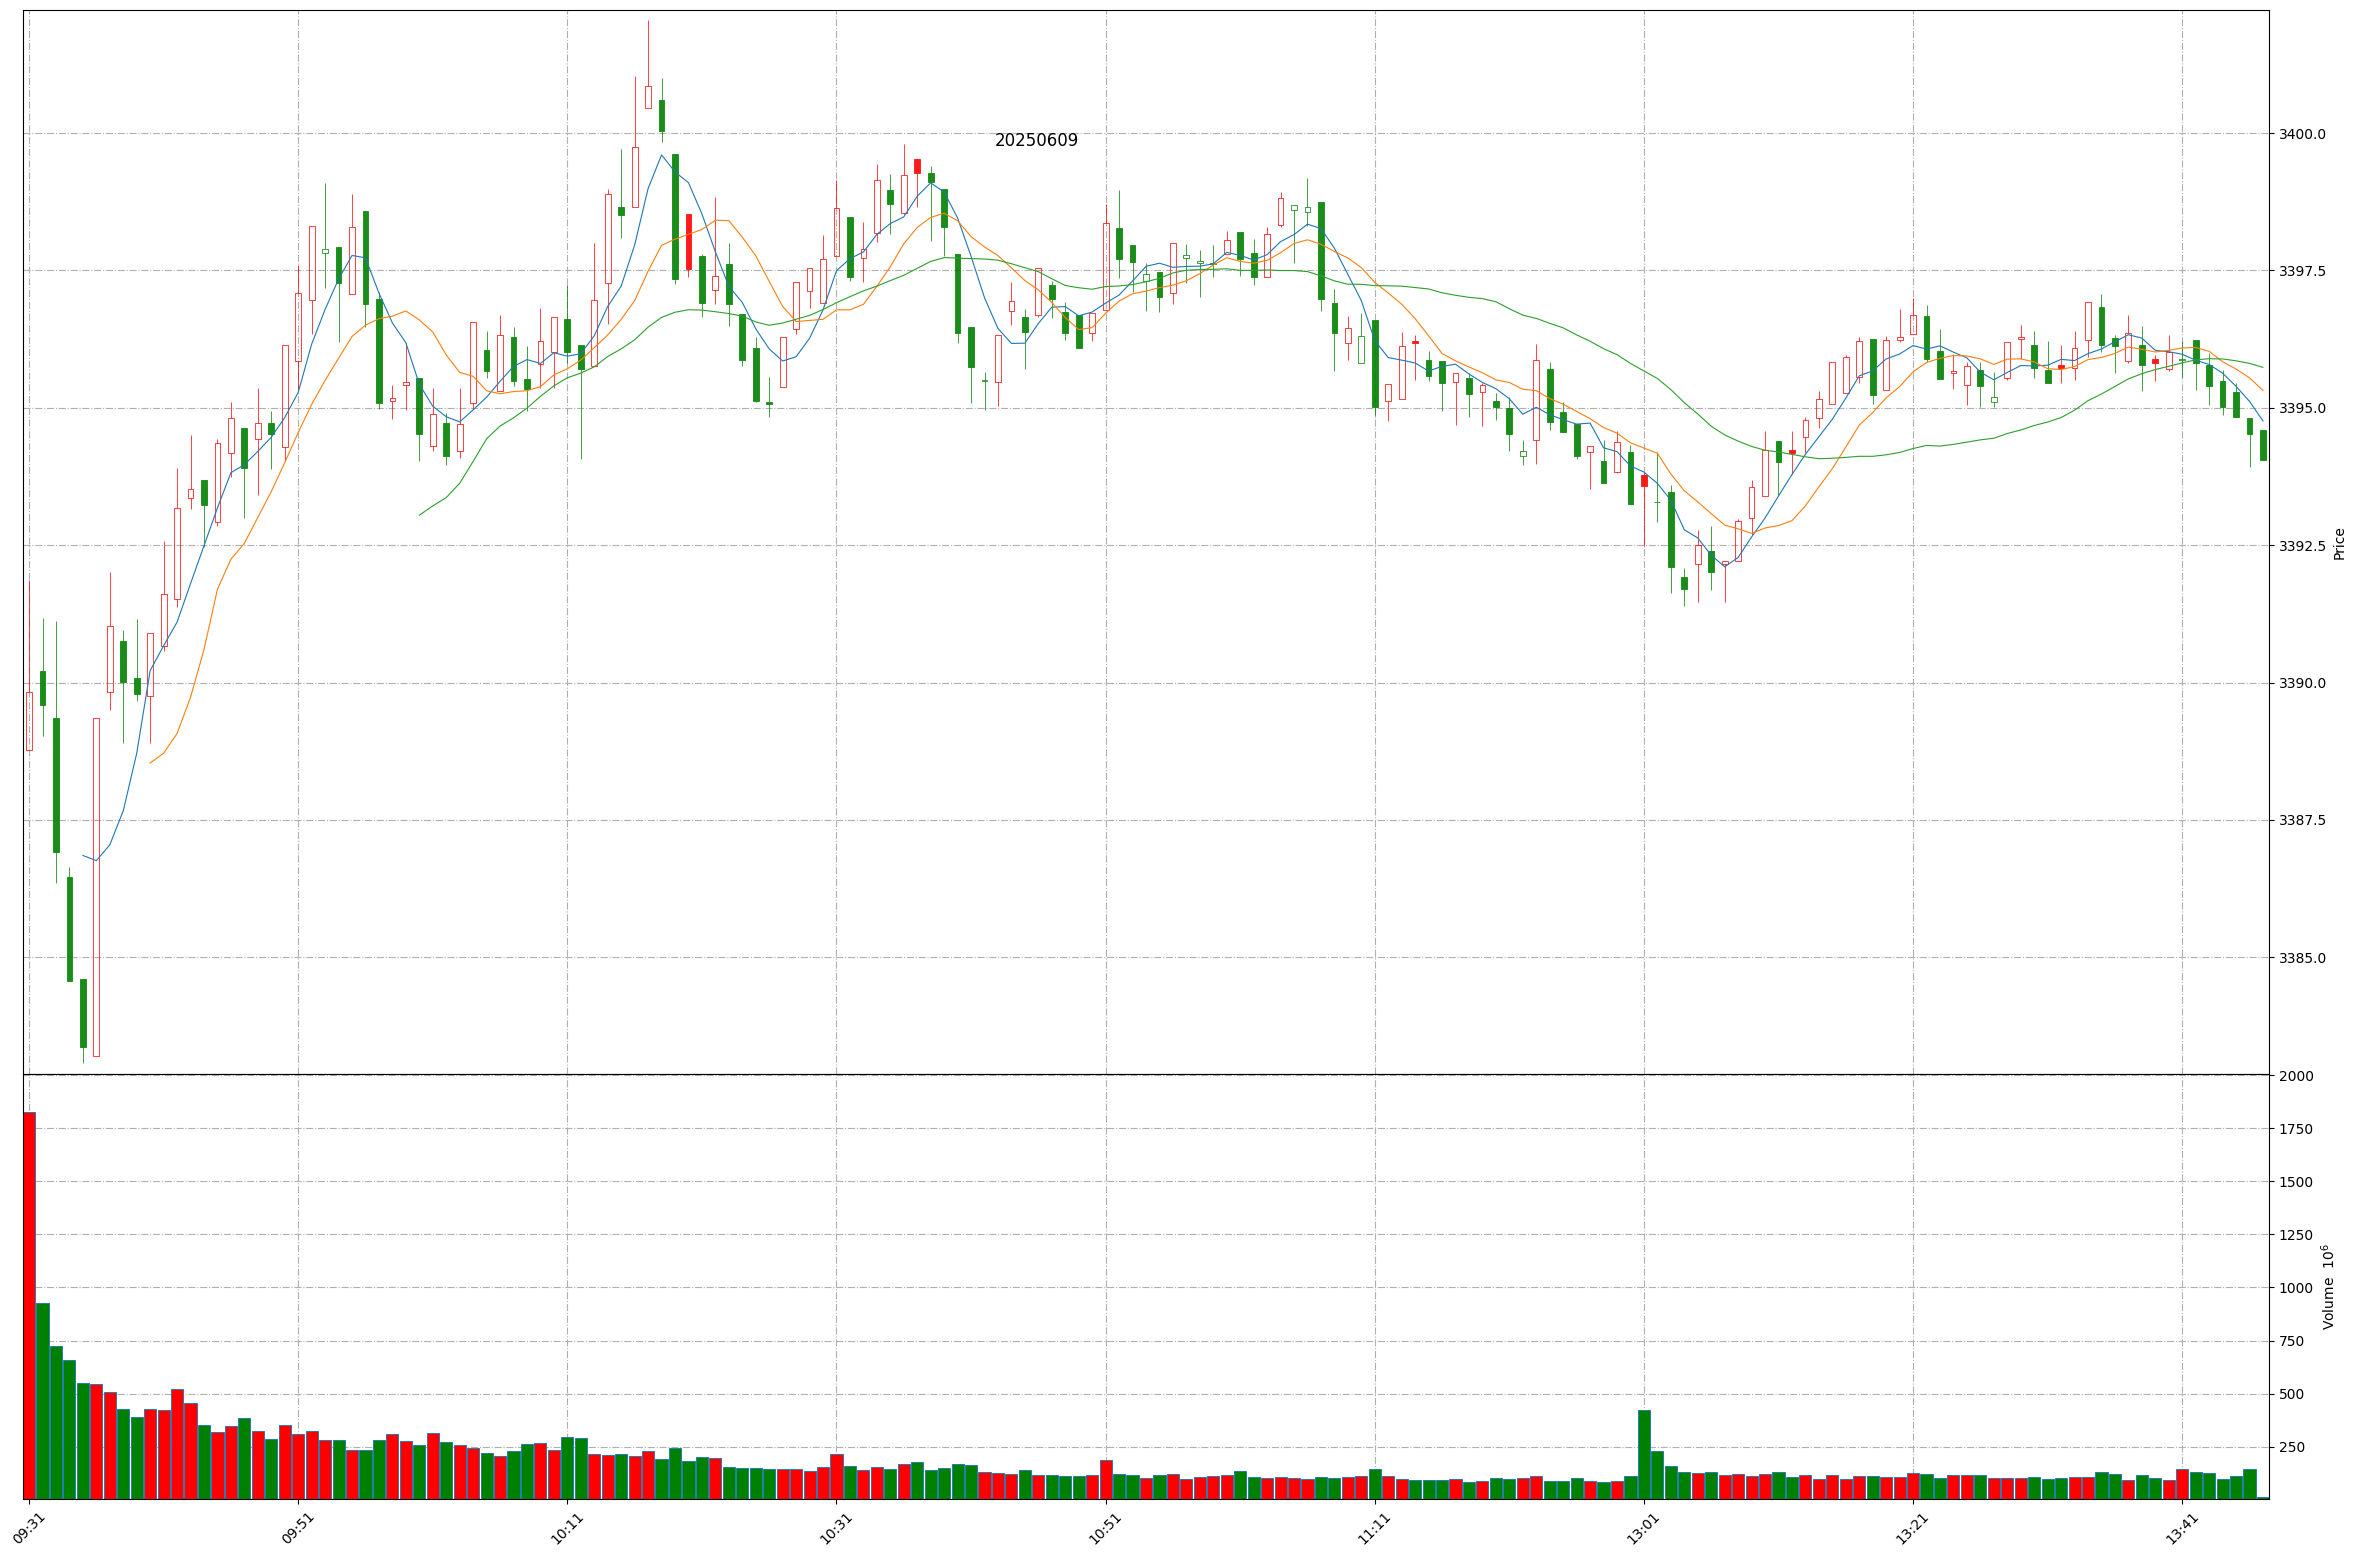
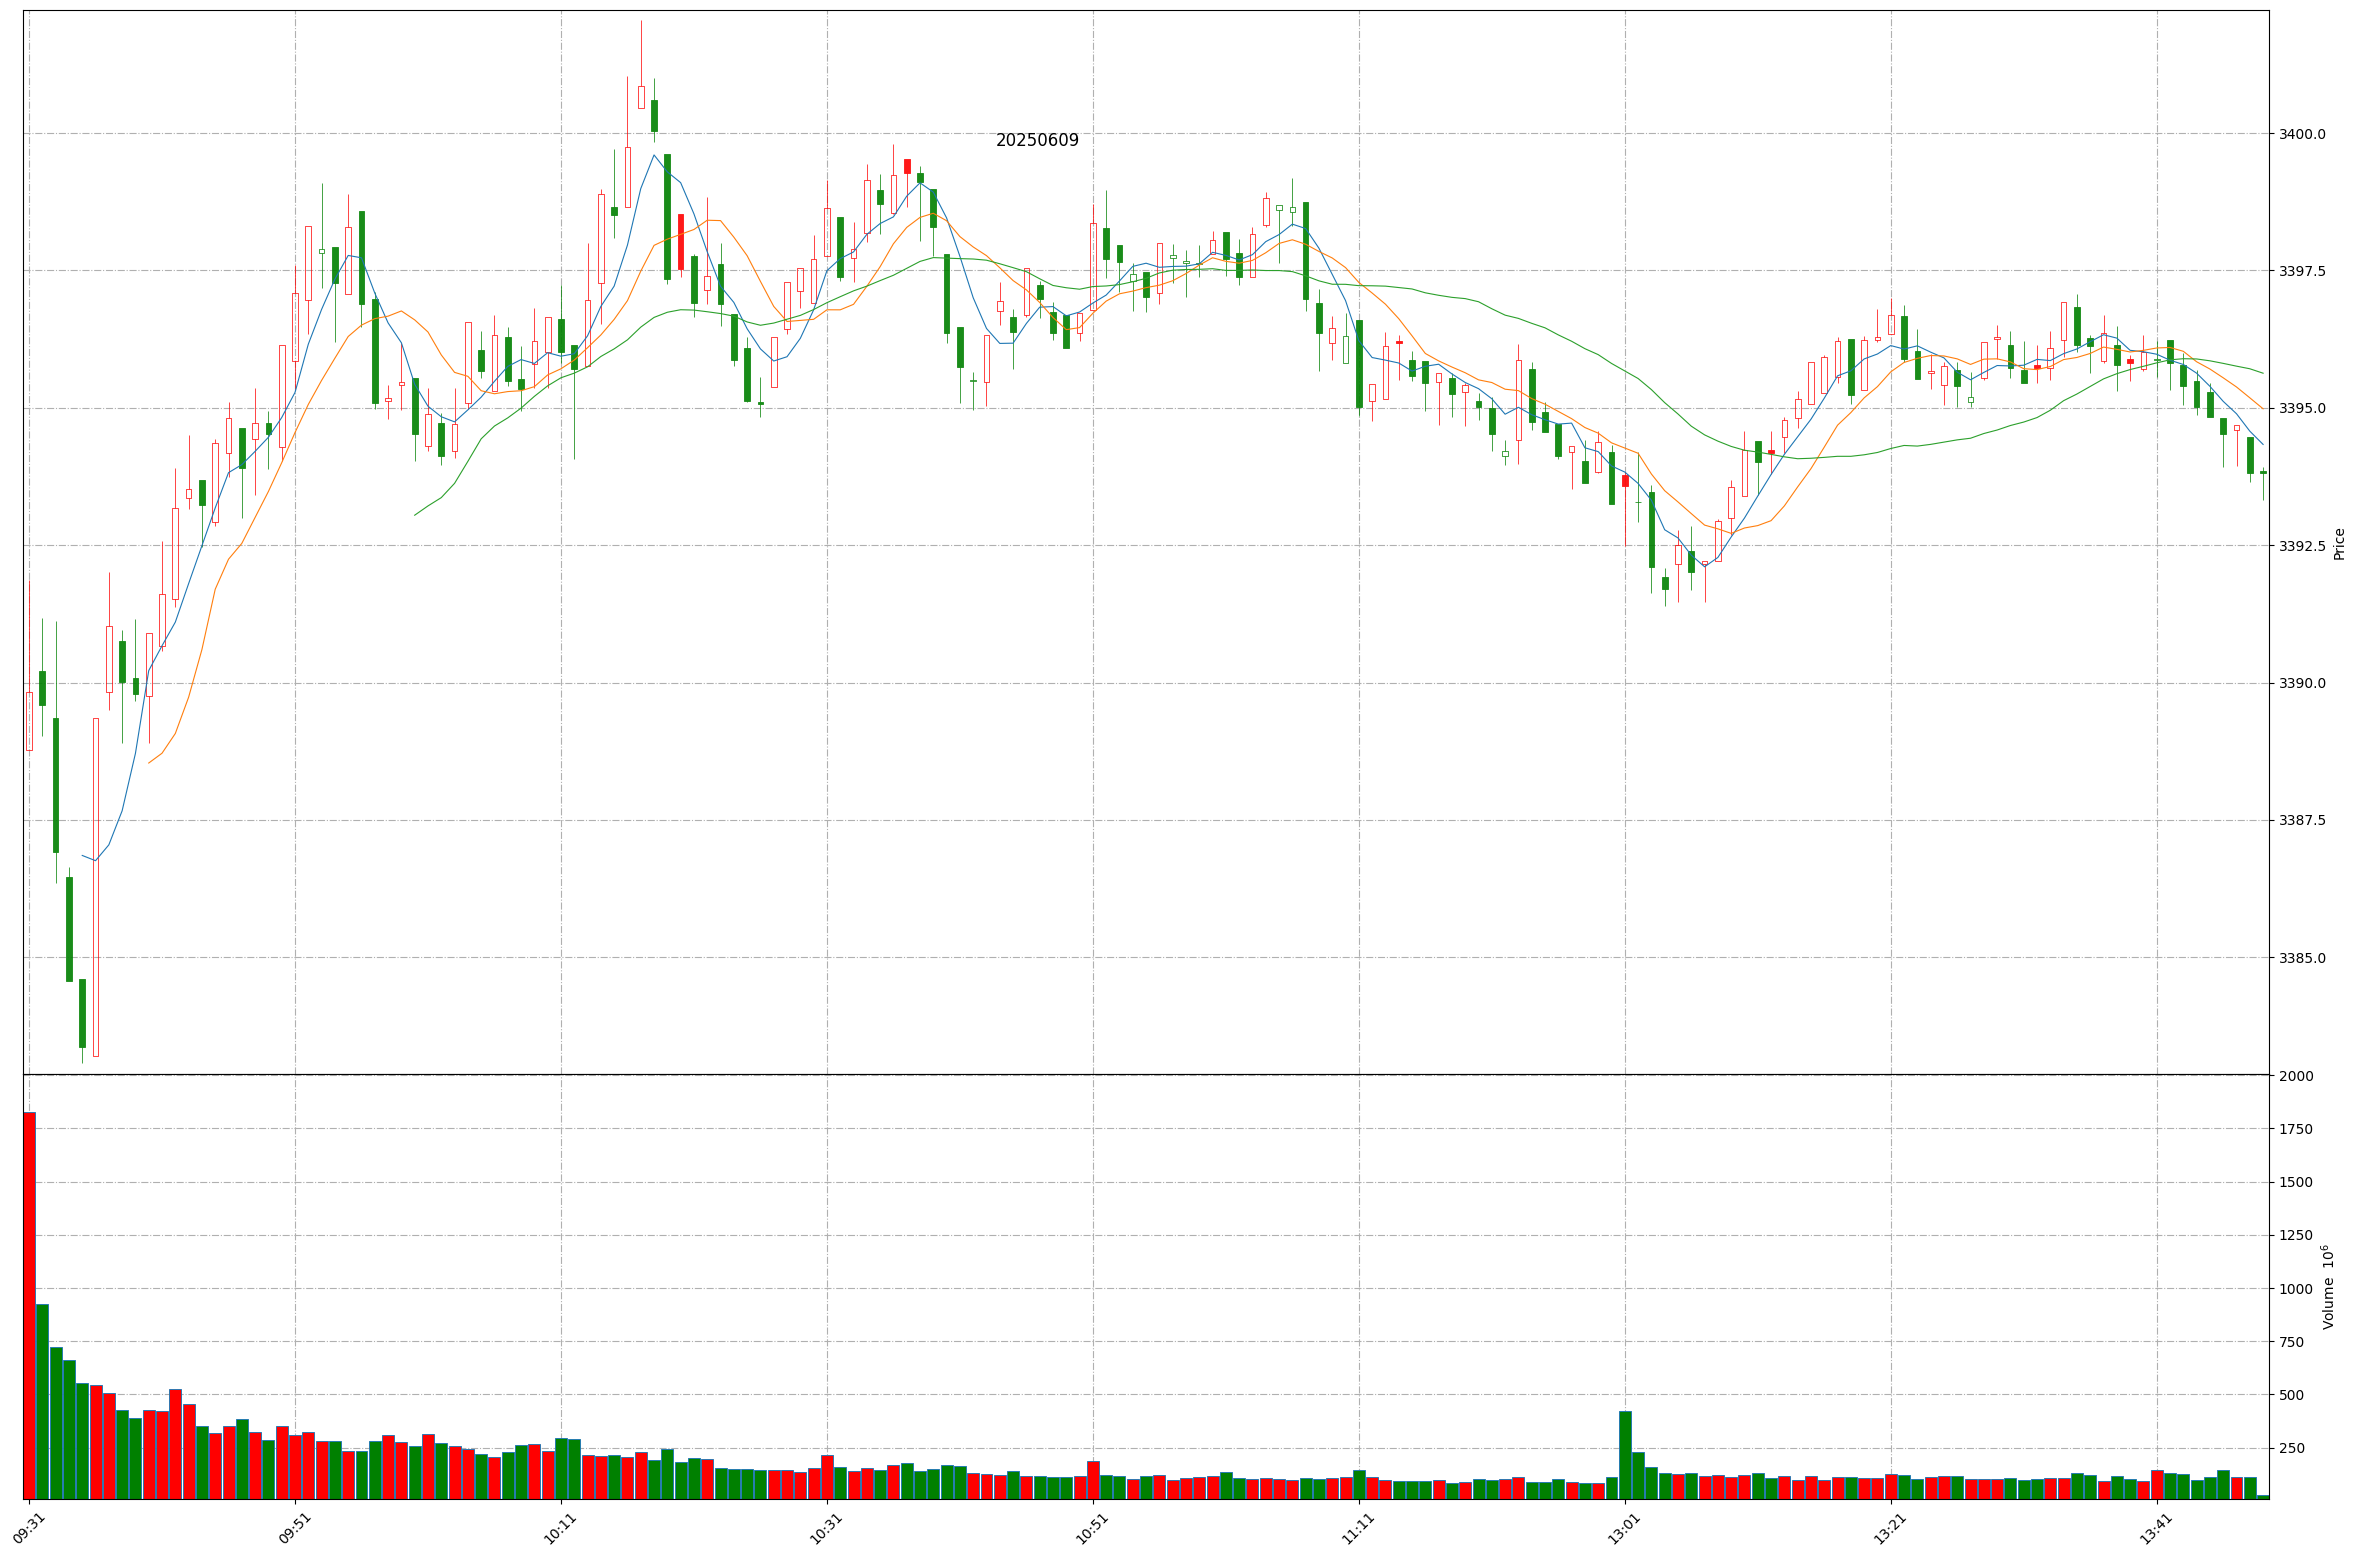
Github action update at 2025-06-09 13:48:43.

diff --git a/README.md b/README.md
@@ -1,11 +1,11 @@
 
 # Daily-A-share-market-quotes 每日 A 股指数（5min 更新）- 20250609
 
-### 上证指数 20250609 13:46
+### 上证指数 20250609 13:48
 ![](./fig/2025/6/20250609-sh000001.png)
 
-### 深证成指 20250609 13:46
+### 深证成指 20250609 13:48
 ![](./fig/2025/6/20250609-sz399001.png)
 
-### 北证50 20250609 13:46
+### 北证50 20250609 13:48
 ![](./fig/2025/6/20250609-bj899050.png)
